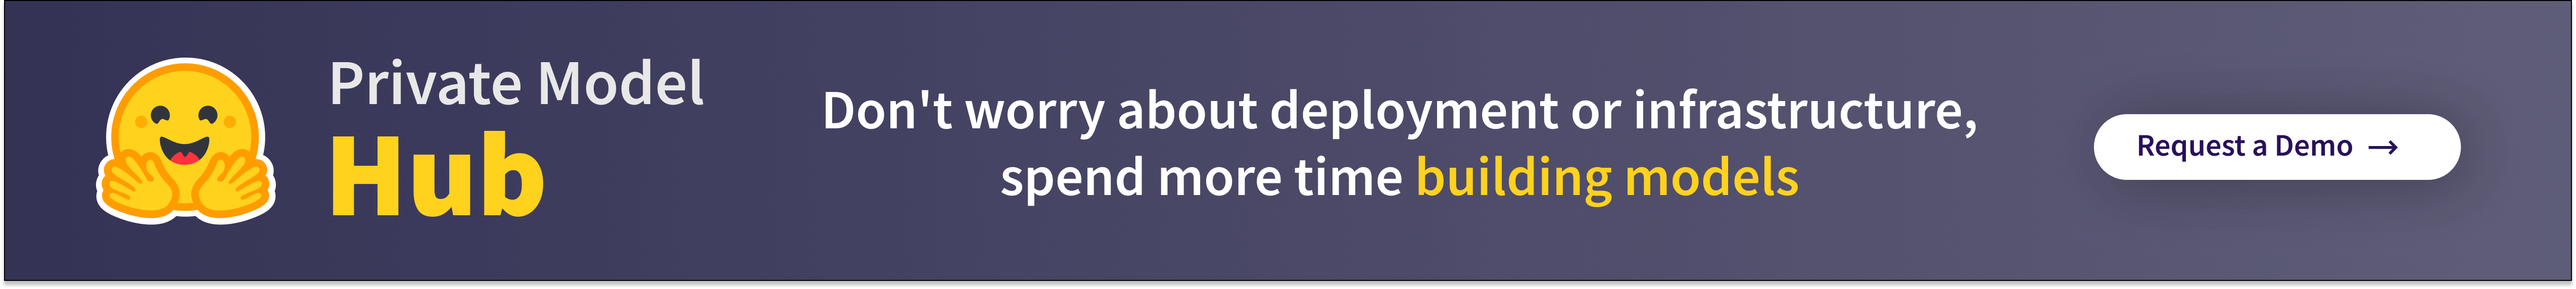
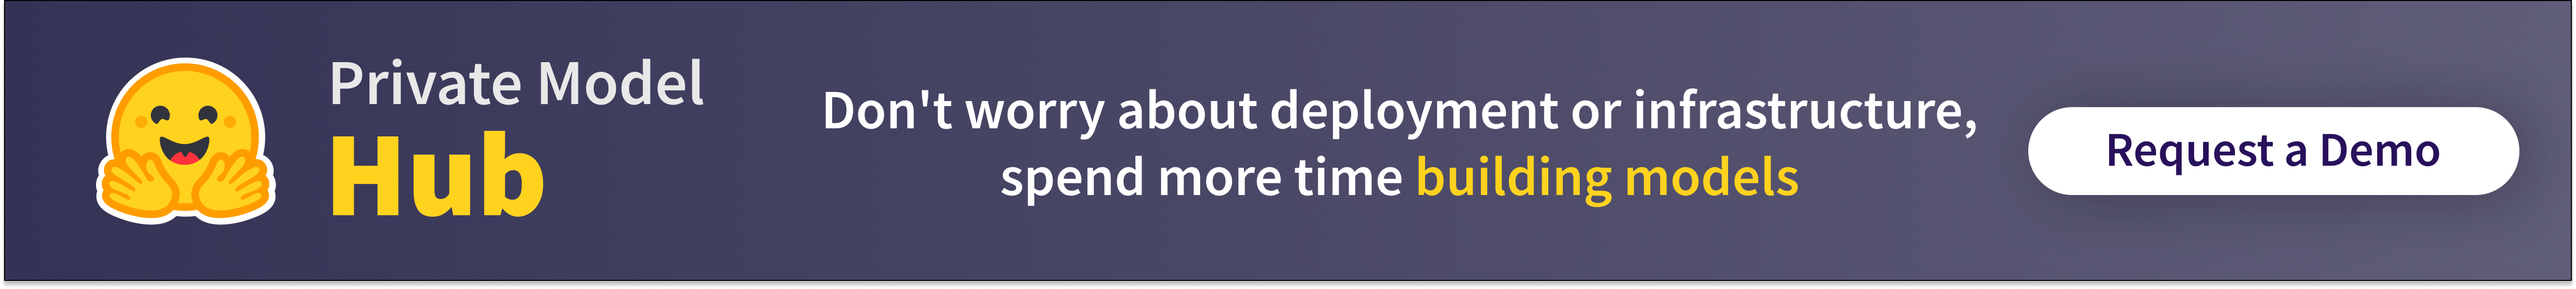
Adds suggested grammerical edits and CTA enhancements

Changed region(s): [[0.7797, 0.3566, 0.998, 0.6836]]

diff --git a/ml-director-insights.md b/ml-director-insights.md
@@ -29,13 +29,14 @@ img {
 </head>
 <body>
 
-## Few seats at the Machine Learning table span both technical skills and business acumen like Directors of Machine Learning
+Few seats at the Machine Learning table span both technical skills and business acumen like Directors of Machine Learning
 
 Directors of Machine Learning and/or Data Science are often expected to design ML systems, have deep knowledge of mathematics, familiarity with ML frameworks, rich data architecture understanding, experience applying ML to real-world applications, solid communication skills, and often expected to keep on top of industry developments. A tall order!
-<a href="https://huggingface.co/platform?utm_source=article&utm_medium=blog&utm_campaign=ml_director_insights_1"><img width="100%" align=
-"right" src="/blog/assets/61_ml_director_insights/private-model-hub.png"></a>
 
-For these reasons, we’ve tapped into this unique group of ML experts for a series of articles highlighting their thoughts on current ML insights and industry trends ranging from Healthcare to Finance, eCommerce, SaaS, Research, Media, and more. For example, one ML Director will note how ML can be used to reduce empty deadheading truck driving (which occurs ~20% of the time) down to just 19% would cut carbon emissions by ~100,000 Americans. Note: This is back of napkin math, done by an ex-rocket Scientist though, so we’ll take it. 
+<a href="https://huggingface.co/platform?utm_source=article&utm_medium=blog&utm_campaign=ml_director_insights_1"><img width="100%" style=
+"margin:auto" src="/blog/assets/61_ml_director_insights/private-model-hub.png"></a>
+
+For these reasons, we’ve tapped into this unique group of ML Directors for a series of articles highlighting their thoughts on current ML insights and industry trends ranging from Healthcare to Finance, eCommerce, SaaS, Research, Media, and more. For example, one Director will note how ML can be used to reduce empty deadheading truck driving (which occurs ~20% of the time) down to just 19% would cut carbon emissions by ~100,000 Americans. Note: This is back of napkin math, done by an ex-rocket Scientist however, so we’ll take it. 
 
 In this first installment, you’ll hear from a Researcher (who’s using ground penetrating radar to detect buried landmines), an ex-Rocket Scientist, a Dzongkha fluent amateur gamer (Kuzu = Hello!), an ex-van living Scientist, a high-performance Data Science team coach who’s still very hands-on, and a data practitioner who values relationships, family, dogs, and pizza. —All of whom are currently Directors of Machine Learning with rich field insights.
 

diff --git a/lewis-tunstall-interview.md b/lewis-tunstall-interview.md
@@ -97,7 +97,7 @@ I think there's something sort of strangely human, right? Where if we see genera
 
 **Britney:** But, then something had happened with an oil spill that next year, where there were actually fires underwater! And I immediately thought about that text and thought, maybe AI is onto something already that we're not quite aware of?
 
-### You and other experts at Hugging Face have been working hard on the Hugging Face Course. How did that come about & where is it headced? 
+### You and other experts at Hugging Face have been working hard on the Hugging Face Course. How did that come about & where is it headed? 
 
 **Lewis:** When I joined Hugging Face, [Sylvian](https://twitter.com/GuggerSylvain) and [Lysandre](https://twitter.com/LysandreJik), two of the core maintainers of the transformers library, were developing a course to basically bridge the gap between people who are more like software engineers who are curious about natural language processing but specifically curious about the transformers revolution that's been happening. So I worked with them and others in the open-source team to create a free course called the [Hugging Face Course](https://huggingface.co/course/chapter1/1). And this course is designed to really help people go from knowing kind of not so much about NLP all the way through to having the ability to train models on many different tasks.
 
@@ -288,5 +288,3 @@ I had to control my humor in various places but maybe there'll be a second editi
 Thank you for listening to Machine Learning Experts!
 
 <a href="https://huggingface.co/support?utm_source=blog&utm_medium=blog&utm_campaign=ml_experts&utm_content=lewis_interview_article"><img src="/blog/assets/60_lewis_tunstall_interview/lewis-cta.png"></a>
-
-
